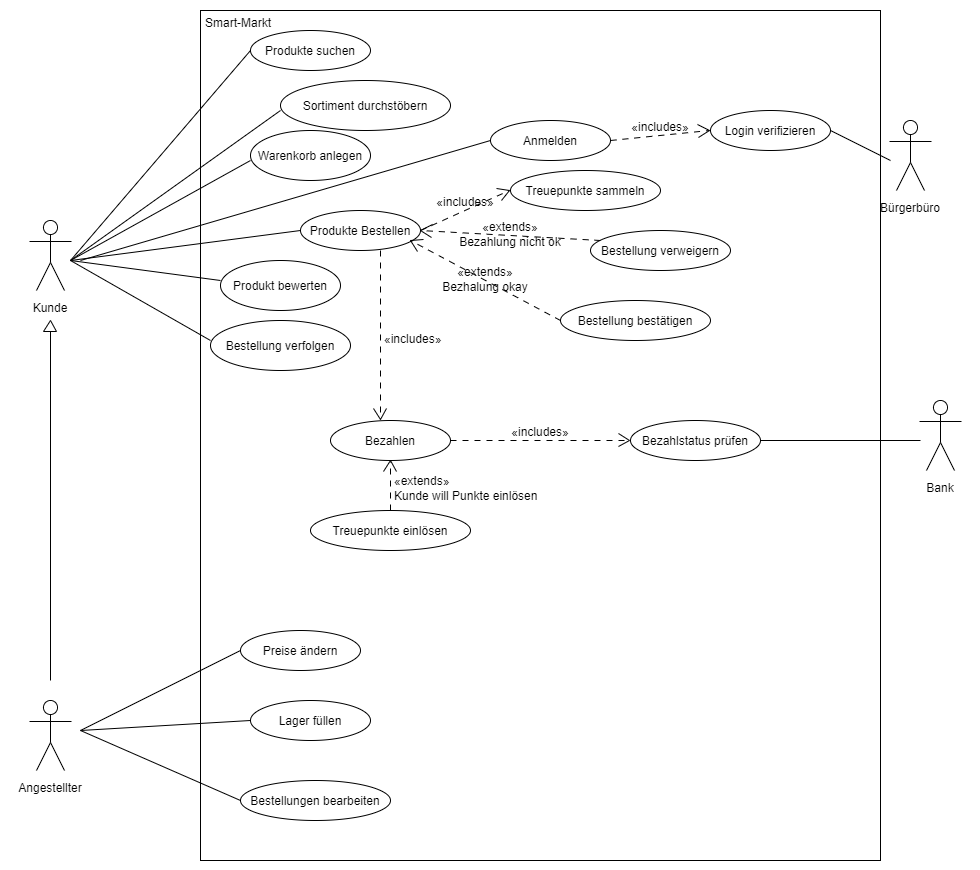
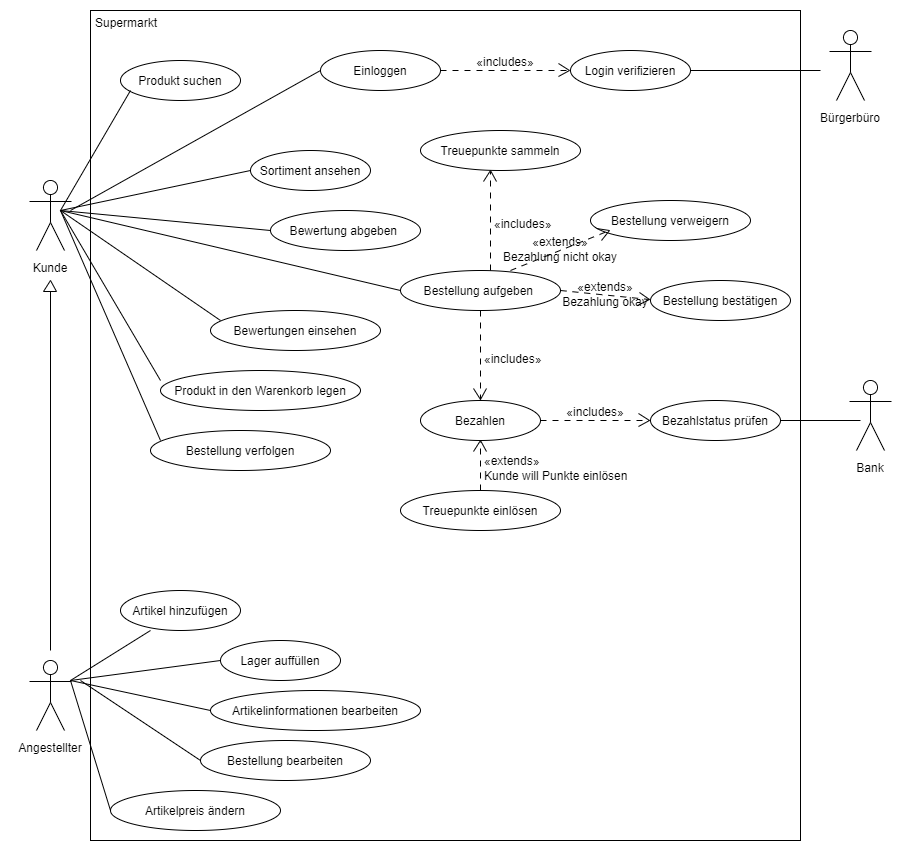
update smartmarkt specs

diff --git a/docs/andre_matutat/spezifikation.md b/docs/andre_matutat/spezifikation.md
@@ -18,7 +18,7 @@ Ziel des Smart-Markts ist es, jeden Bürger der Smart-City, egal ob jung oder al
 
 Aber auch die Angestellten des Smart-Markts profitieren von der Digitalisierung. Der Lagerbestand jedes Produktes kann schnell und einfach eingesehen werden, ohne seinen Schreibtisch zu verlassen. Bestellungen beim Zuliefere können mit nur wenigen Klicks aufgegeben werden. Preise der Produkte können ebenfalls angepasst werden.
 
-Das System ist jedoch keine voll Automatisierung des Einzelhandels. Kundenbestellungen werden von Menschen bearbeitet, um die best mögliche Qualität zu gewährleisten.  
+Das System ist jedoch keine volle Automatisierung des Einzelhandels. Kundenbestellungen werden von Menschen bearbeitet, um die best mögliche Qualität zu gewährleisten.  
 
 
 
@@ -48,7 +48,6 @@ Das System ist jedoch keine voll Automatisierung des Einzelhandels. Kundenbestel
 ### 2.3.2 Betriebsbedingungen
 
 - Verfügbarkeit per Webzugriff mit den Browsern Google Chrome und Firefox
-- optimiert Darstellung auf Android Smartphones
 
 ### 2.3.3 Qualitätsmerkmale
 
@@ -118,7 +117,10 @@ Prüfbarkeit |X|-|-|-
 | Angestellter | Lager füllen                             | der Lagerbestand gefüllt wird                                | Lagerbestand lässt sich anpassen                            |
 | Angestellter | Preise ändern                            | ich Angebote erstellen oder Preisänderungen durchführen kann | Preise lassen sich ändern                                   |
 | Angestellter | Bestellstatus ändern | der aktuelle Bestellstatus einsehbar ist | Bestellstatus lässt sich ändern|
-| User         | mich einloggen                           | damit mir die Funktionen des SmartMarkts zur Verfügung stehen | User kann sich anmelden                                     |
+| Kunde     | mich einloggen                           | damit mir die Funktionen des SmartMarkts zur Verfügung stehen | User kann sich anmelden                                     |
+|Angestellter|neue Artikel hinzufügen|damit diese von nun an auch gekauft werden können|Neue Artikel können hinzugefügt werden|
+|Angestellter|Artikel bearbeiten|Artikelinformationen aktuell gehalten werden können|Artikel lassen sich bearbeiten|
+|Kunde|Bewertungen ansehen|ich die Meinung anderer Nutzer sehen kann|Reviews werden auf der Artikelseite angezeigt|
 
 
 # 3 Technische Beschreibung
@@ -152,7 +154,7 @@ message OrderID {
 }
 
 message OrderInformation{
-    int32 userID=1;
+    string userID=1;
     int32 artickeID=2;
     int32 howMany=3;
 }
@@ -177,19 +179,6 @@ message OrderState{
 }
 ```
 
-
-#### Empfangen
-
-##### Bürger Büro
-
-- Bürgerdaten aktualisiert => Lieferadresse aktualisieren 
-
-- Nutzerkonto deaktiviert => Kundenkonto löschen
-
-- Neuer Bürger hinzugezogen => Kundenkonto erstellen
-
-  
-
 ## 3.4 Datenmodell 
 ![m_lager](./img/erd.png)
 
@@ -199,14 +188,11 @@ message OrderState{
 
 ![ablaufdiagramm](./img/ablaufdiagramm.png)
 
-## 3.6 Entwurf
-
-- tbd
-
-## 3.7 Fehlerbehandlung 
+## 3.6 Fehlerbehandlung 
 
 * Keine Verbindung zur Bank --> Fehlermeldung
 * Keine Verbindung zum Bürgerbüro --> Fehlermeldung
+* Backend Request Failed -> Fehlermeldung
 * Produkt wird bestellt obwohl es nicht auf Lager ist --> keine Fehlerbehandlung
 
 # 4 Projektorganisation
@@ -230,21 +216,6 @@ message OrderState{
   * Fertigstellung Micro-Service
 * 02.07.2020 
   * Finale Einbindung in die Smart-City
-* 03.07.2020 
+* 02.07.2020 
   * Softwareübergabe
   * Präsentation 
-
-# 5 Anhänge
-
-## 5.1 Glossar 
-
-- tbd
-
-## 5.2 Referenzen
-
-- tbd
-
-## 5.3 Index
-
-
-
